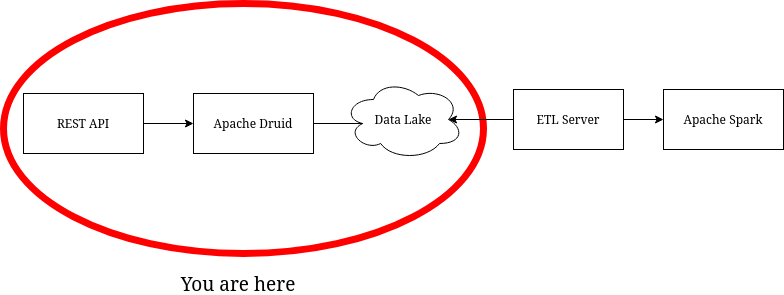
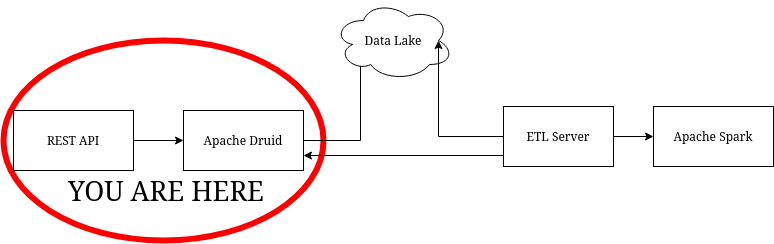
Adding simplified architecture and a README file.

diff --git a/README.md b/README.md
@@ -1,2 +1,113 @@
-# Simple_REST_Server
-A simple REST server written with Node.js.
+# Simple REST Server
+## Introduction
+This project is part of a demo to show some of the capabilities of Druid as a OLAP database. It's part of the [demonstration using Spark and Druid](https://github.com/Ruriel-SCIO/demonstration-spark-druid). However, it's still possible to run this code separately for studying purposes.
+
+## What is Apache Druid?
+It's a OLAP database designed to read big portions of data in real-time. More information about it can be seen in the [official website](https://druid.apache.org/)
+
+## Architecture
+![You are here](doc/simplified-architecture.png "You are here")
+This part of the architecture serves as a interface between Druid and a client, like a user interface or even another REST API.
+
+## Requirements
+* Docker 20.10.6
+* Docker Compose 1.29.2
+
+The setup is as simple as running a terminal command:
+```console
+$ docker-compose up --build 
+```
+Docker will create container and download all the required files. This container assumes Apache Druid is already running. If you want a container that runs a single server version of it, take a look at the [full demo repository](https://github.com/Ruriel-SCIO/demonstration-spark-druid). Otherwise, [you can install Druid on your machine separately](https://druid.apache.org/docs/latest/tutorials/index.html). Remember to double check the docker-compose file to set the location of the Druid server (variable DRUID_SERVER) and the port you want to run the API (variable PORT).
+If you want to run the code locally in developer mode, run the following:
+```code
+$ npm install -g yarn
+$ yarn install
+$ yarn dev
+```
+
+## API
+GET /api/dimensions
+
+Runs a SQL query to retrieve the available dimensions of the datasource (which is set as "service" for the purpose of this demonstration).
+
+**Returns**
+```json
+{
+    "dimension" : List(String)
+}
+```
+
+POST /api/customerCare/amount
+
+Reads a simplified JSON to be used to generate a [Native Query](https://druid.apache.org/docs/latest/querying/querying.html).
+The following is a list of each field described.
+
+*   dimensions: List of Strings representing the dimensions. You can send one or more dimensions. This would be the equivalent of the SELECT clause in a SQL query.
+        
+    * Available data: 
+    ```json
+    ["identifier","evaluation","duration","operator","status","client","phone"]
+    ```
+* granularity: The level of time granularity you want the data to be grouped. For instance, if you want
+to see the counting by day, set the granularity as 'day'. For month, set it as 'month'. You can see more about granularity [here](https://druid.apache.org/docs/latest/querying/granularities.html).
+    
+    * Available data: If none of the following is sent, the API will default to "all".
+    ```json
+    ["all","none","second","minute","fifteen_minute", "thirty_minute","hour","day","week","month","quarter","year"]
+    ```
+* dateStart: The start date used to create the interval the queried data will belong. Follows the format YYYY-MM-dd. Defaults to today.
+    * Available data: The dates varies from 2021-01-01 to 2021-05-24.
+* dateEnd: The end date used to create the interval the queried data will belong. Follows the format YYYY-MM-dd. Defaults to dateStart.
+    * Available data: The dates varies from 2021-01-01 to 2021-05-24.
+* filter: A simplified object used to describe a sequence of expression equivalent to a WHERE clause. In this demo, only simple expressions are valid, such as "A or B and C". The result is used to generate a [selector filter](https://druid.apache.org/docs/latest/querying/filters.html#selector-filter). Since the mock data has 10000 lines, you can keep querying using only the "dimension" field and using the data shown in the events to query for specific values.
+    * Each object has the following schema:
+    ```
+    {
+        "name" : The name of the dimension. Ignored if "type" is "logic".
+        "value" : The value searched or the boolean operand ("or", "and", etc)
+        "type" : The type of the value. In this demonstration, it's only used for "logic" type.
+    }
+    ```
+
+**Input**
+```json
+{
+    "dimensions": List(String),
+    "granularity" : String,
+    "dateStart": Date(YYYY-MM-dd),
+    "dateEnd" : Date(YYYY-MM-dd),
+    "filter" : List(filterElements)
+}
+```
+
+**Returns**
+```json
+[
+    {
+        "timestamp" : Timestamp,
+        "events": [
+            {
+                "count" : Long,
+                (Any dimension requested) : (The value of that dimension)
+            }
+        ]
+    }
+]
+```
+## Code Structure
+* app
+    * controller
+        * druidController.js: A controller that will sent the data to Druid. In this version, we use two endpoints that POSTS either a SQL query or a Native Query to Druid.
+    * routes
+        * createRouter.js: Reads the subfolders to generate a Router using each route file configuration.
+        * customerCare/amount.js: The route used to send the data that will generate a native query to Druid.
+        * dimensions/index.js: The route that will send a SQL query to Druid asking for the available dimensions.
+    * services
+        * customerCareService.js: The service that will receive a the body of the request and, using the utils functions, generate a native query to send to Druid via druidController.
+        * dimensionService.js: Creates a SQL query to retrieve the dimensions from Druid. Since Druid returns a stringfied JSON, parses it and returns as a object.
+    * utils
+        * dataFormatter.js: Used to format the output data generated by Druid into a more friendly format. It only has a function to group the events by timestamp.
+        * nativeQueryBuilder: This is where we process the data sent in the body of the request to generate a Native Query.
+* config
+    * serverConfig: Sets up the configuration for Express.
+* main.js: The file responsible to start the application.
